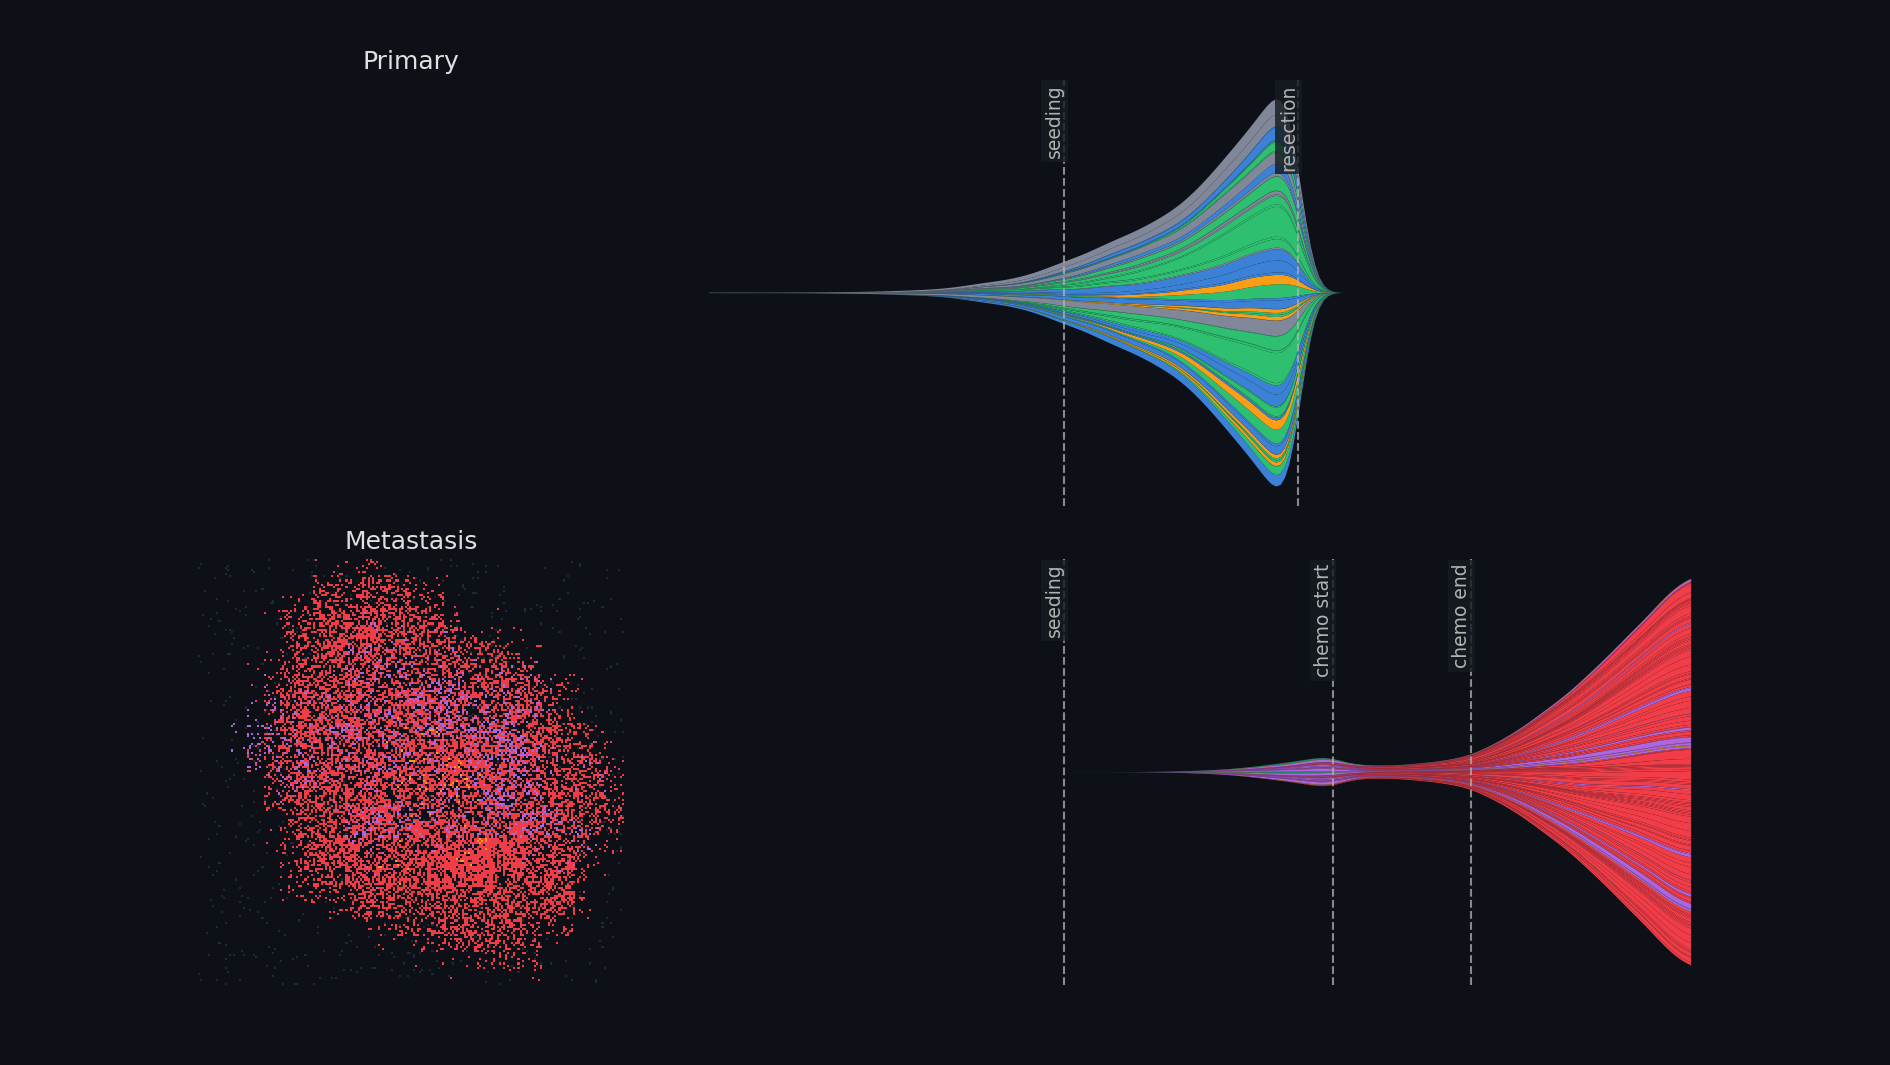
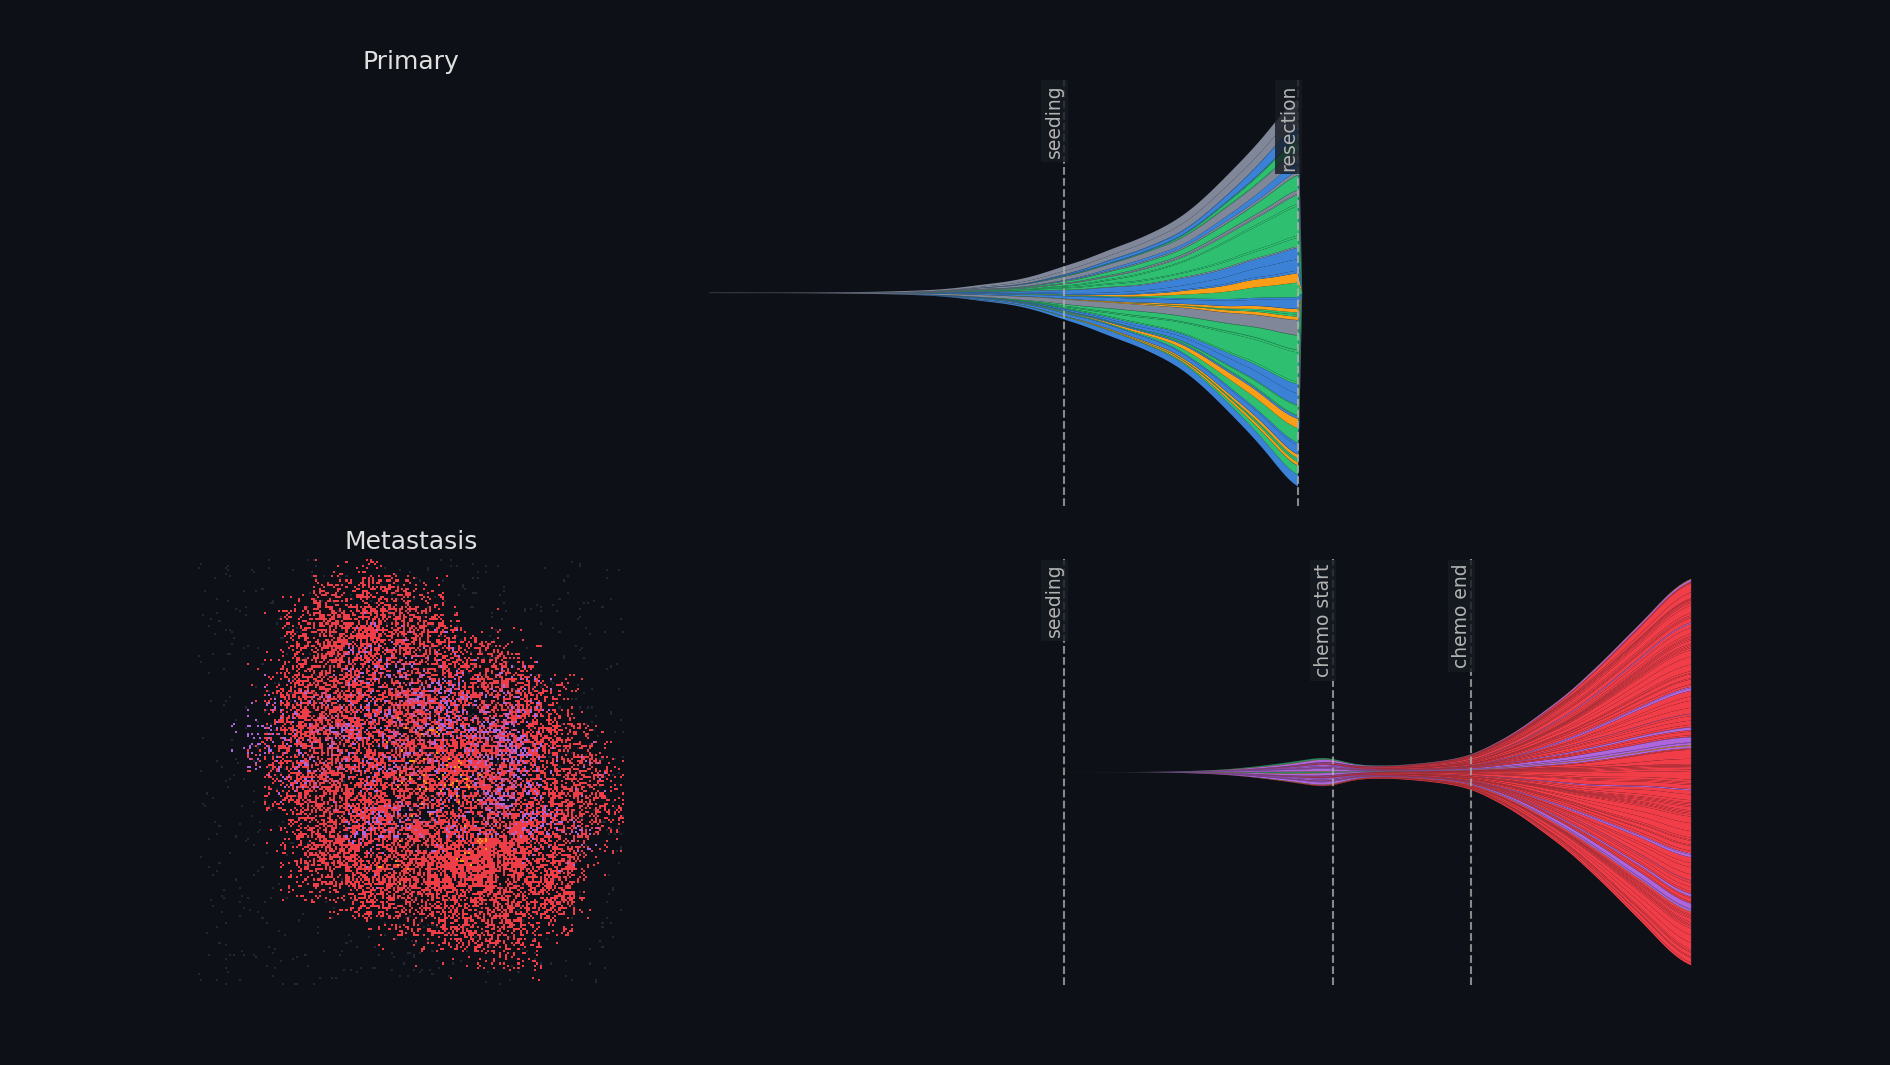
fix(hero): make the primary resection a hard cliff, not a smoothed taper
The smoothing_std=3.0 Gaussian is a single centered kernel over the whole
time axis, so near the primary's resection it averaged across the
boundary into the post-resection zeros: the primary fan narrowed early
and tapered to a point over several generations instead of dropping at
the resection line. Resection is a DISCRETE removal, so its transition to
0 must not be smoothed.

Add _get_y_values_hardcut in viz.py: smooth the primary's pre-resection
block in isolation (edge-preserving 'nearest' boundary) so the kernel
never crosses the boundary, and hard-zero every generation after it -> the
fan keeps full width up to the resection generation, then drops to 0 in
one step (a vertical cliff / flat centerline). Wired via
plot_muller_compartments(primary_resection_gen=...); compartment.py and
the notebook read the resection generation from marks and pass it. ONLY
the primary panel is cut - the metastasis chemo bottleneck stays the
smoothed waist. Regenerated docs/assets/landing_hero.gif (5.82 MB) +
poster; sim params/seed unchanged.

Changed region(s): [[0.4995, 0.093, 0.718, 0.4648]]

diff --git a/src/iscc/tumor/viz.py b/src/iscc/tumor/viz.py
@@ -606,12 +606,51 @@ def stage_legend(present=None):
     return [(STAGE_NAMES[i], STAGE_PALETTE[i]) for i in idxs]
 
 
+def _get_y_values_hardcut(populations_df, adjacency_df, smoothing_std, cutoff_gen):
+    """``pymuller.logic._get_y_values`` but with a HARD discontinuity at ``cutoff_gen`` (the primary's
+    resection generation): a discrete removal that must NOT be eased away by the Gaussian kernel.
+
+    pymuller smooths every strain with a single *centered* Gaussian rolling mean over the whole time
+    axis, so near resection the kernel averages across the boundary into the post-resection zeros —
+    which both pulls the pre-resection bands DOWN early and rounds the drop to 0 over several
+    generations. Here the smoothing is applied to the PRE-cutoff block IN ISOLATION with
+    edge-preserving ('nearest') boundary handling, so the kernel never reaches past ``cutoff_gen`` and
+    the bands keep their full pre-resection width right up to it; every generation strictly after
+    ``cutoff_gen`` is forced to 0, so the fan drops to 0 in one step (a vertical cliff / flat
+    centerline afterward). Ordering + leaf-doubling mirror ``_get_y_values`` so the band colours line
+    up exactly with the ordinarily-smoothed (non-cut) panels."""
+    import scipy.ndimage as _ndi
+    ordering = pymuller.logic._get_strains_ordering(adjacency_df)
+    population_size_max = populations_df.groupby("Generation")["Population"].sum().max()
+    pivot = populations_df.pivot(index="Generation", columns="Identity",
+                                 values="Population").sort_index()
+    smoothed = pivot.copy()
+    pre_idx = pivot.index[pivot.index <= cutoff_gen]
+    post_idx = pivot.index[pivot.index > cutoff_gen]
+    if len(pre_idx) > 1:
+        block = _ndi.gaussian_filter1d(pivot.loc[pre_idx].to_numpy(dtype=float),
+                                       sigma=smoothing_std, axis=0, mode="nearest")
+        smoothed.loc[pre_idx, pivot.columns] = block
+    smoothed.loc[post_idx, pivot.columns] = 0.0          # hard cliff: nothing survives resection
+    smoothed = smoothed.clip(0, population_size_max)
+    Y = smoothed[ordering] / 2
+    keep = [0]
+    for i, c in enumerate(Y.columns[1:], 1):
+        if c == Y.columns[i - 1]:
+            Y.iloc[:, i] *= 2
+            keep.pop()
+        keep.append(i)
+    return Y.iloc[:, keep]
+
+
 def _draw_muller_panel(ax, pop_df, anc, band_colors, normalize, smoothing_std,
-                       default=(0.82, 0.82, 0.82, 1.0), centered=False):
+                       default=(0.82, 0.82, 0.82, 1.0), centered=False, hard_cutoff_gen=None):
     """Draw ONE Muller panel with EXPLICIT per-band colours, bypassing pymuller's colormap
     normalisation so a categorical palette maps exactly. Mirrors pymuller._muller_plot's layout.
     ``centered=True`` uses a symmetric (``baseline="sym"``) baseline — the Noble "fish"/stream layout,
-    bands growing outward from a central midline; default is the historical zero-based stack."""
+    bands growing outward from a central midline; default is the historical zero-based stack.
+    ``hard_cutoff_gen`` (e.g. the primary's resection generation) makes the transition to 0 at that
+    generation a hard cliff rather than a smoothed taper (see ``_get_y_values_hardcut``)."""
     import sys as _sys
     pop = pop_df.copy()
     if normalize:
@@ -621,7 +660,10 @@ def _draw_muller_panel(ax, pop_df, anc, band_colors, normalize, smoothing_std,
     _old = _sys.getrecursionlimit()
     try:
         _sys.setrecursionlimit(max(_old, 20000))
-        yt = pymuller.logic._get_y_values(pop, anc, smoothing_std)
+        if hard_cutoff_gen is not None:
+            yt = _get_y_values_hardcut(pop, anc, smoothing_std, hard_cutoff_gen)
+        else:
+            yt = pymuller.logic._get_y_values(pop, anc, smoothing_std)
     finally:
         _sys.setrecursionlimit(_old)
     colors = [band_colors.get(str(c), default) for c in yt.columns.values]
@@ -633,7 +675,7 @@ def plot_muller_compartments(traces, genotypes_parents, axes=None, colormap="gnu
                              normalize=False, smoothing_std=0.1, labels=("primary", "metastasis"),
                              mark_generations=None, driver_map=None, min_freq=None,
                              star_genotype=None, star_gen=None, clone_colors=None, color_legend=None,
-                             centered=False):
+                             centered=False, primary_resection_gen=None):
     """Two stacked Muller panels — primary (top) and metastasis (bottom) — that SHARE ONE colormap, so
     a clone keeps its colour across both bands (and matches plot_grid_compartments / plot_muller). The
     met founder therefore appears in the met band with the SAME colour as its — usually minor — parent
@@ -649,7 +691,11 @@ def plot_muller_compartments(traces, genotypes_parents, axes=None, colormap="gnu
     stay shared.
 
     `mark_generations` is an optional list of (generation, label) drawn as vlines (seeding / resection /
-    chemo start+end)."""
+    chemo start+end).
+
+    ``primary_resection_gen`` (a generation) renders the PRIMARY panel's resection as a hard cliff —
+    full width up to that generation, then 0 instantly — instead of a Gaussian-eased taper. Only the
+    primary panel is cut; the metastasis panel (incl. its smoothed chemo bottleneck) is untouched."""
     gcounts, _gp = _cancer_only(traces, genotypes_parents)
     all_gids = [c for c in gcounts.columns if c != "Generation"]
     basis_counts, basis_parents, gmap, basis_cols = _display_basis(
@@ -684,8 +730,11 @@ def plot_muller_compartments(traces, genotypes_parents, axes=None, colormap="gnu
         pop_df = (comp.melt(id_vars=["Generation"], value_name="Population", var_name="Identity")
                   .sort_values("Generation").reset_index(drop=True))
         if band_colors is not None:
+            # resection is a discrete removal of the PRIMARY only -> hard cliff on that panel; the met
+            # panel (and its SMOOTHED chemo bottleneck) keeps the ordinary cross-time Gaussian.
+            cutoff = primary_resection_gen if key == "primary_counts" else None
             _draw_muller_panel(ax, pop_df, anc_full, band_colors, normalize, smoothing_std,
-                               centered=centered)
+                               centered=centered, hard_cutoff_gen=cutoff)
         elif centered:
             _sym_stackplot(ax, pop_df, anc_full, color_by, colormap, normalize, smoothing_std)
         else:

diff --git a/notebooks/landing_animation.py b/notebooks/landing_animation.py
@@ -288,6 +288,9 @@ def build_figure(t, marks, colors, splash=False):
     # draw the full-arc 2-band Muller once (semantic clone colours; min_freq collapses the passenger
     # rainbow so the sweeps read as bands). Founder-coloured bands -> a band's colour is its clone's.
     # splash uses the CENTERED (Noble "fish"/stream) baseline — bands grow outward from a midline.
+    # resection is a discrete removal of the primary -> hard-cut that panel to 0 at the resection
+    # generation (the met panel + its smoothed chemo bottleneck stay untouched); mirrors the CLI path.
+    resection_gen = next((g for g, lbl in marks if lbl == "resection"), None)
     viz.plot_muller_compartments(t.traces, t.genotypes_parents, axes=(ax_mp, ax_mm),
                                  driver_map=t._functional_signatures(), min_freq=MIN_FREQ,
                                  clone_colors=colors, mark_generations=marks, star_genotype=None,
@@ -295,6 +298,7 @@ def build_figure(t, marks, colors, splash=False):
                                  # Gaussian smoothing removes the per-step band-edge wobble without
                                  # blurring the chemo bottleneck / resection / multi-clone structure.
                                  smoothing_std=3.0,
+                                 primary_resection_gen=resection_gen,
                                  centered=splash)
     xmax = len(t.traces) - 1
     # splash: make the clinical-event lines PANEL-SPECIFIC to where the intervention acts — resection

diff --git a/src/iscc/visualization/compartment.py b/src/iscc/visualization/compartment.py
@@ -72,6 +72,10 @@ def build_figure(traj, splash=False):
     parents = traj["genotypes_parents"]
     colors = traj["colors"]
     marks = traj["marks"]
+    # resection is a DISCRETE removal of the primary -> its Muller must drop to 0 in one step, not be
+    # eased away by the cross-time Gaussian; hand plot_muller_compartments the generation so it hard-
+    # cuts ONLY the primary panel (the met panel + its smoothed chemo bottleneck stay untouched).
+    resection_gen = next((g for g, lbl in marks if lbl == "resection"), None)
     fig = plt.figure(figsize=(12.6, 7.1), dpi=150 if splash else 170)
     fig.patch.set_facecolor(BG)
     if splash:
@@ -101,6 +105,7 @@ def build_figure(traj, splash=False):
                                  # while KEEPING the sharp chemo bottleneck, the resection mark, the
                                  # multi-clone bands, and the DCIS-fills-before-invasion ordering readable.
                                  smoothing_std=3.0,
+                                 primary_resection_gen=resection_gen,
                                  centered=splash)
     xmax = len(traces) - 1
     # splash: make the clinical-event lines PANEL-SPECIFIC to where the intervention acts — resection
